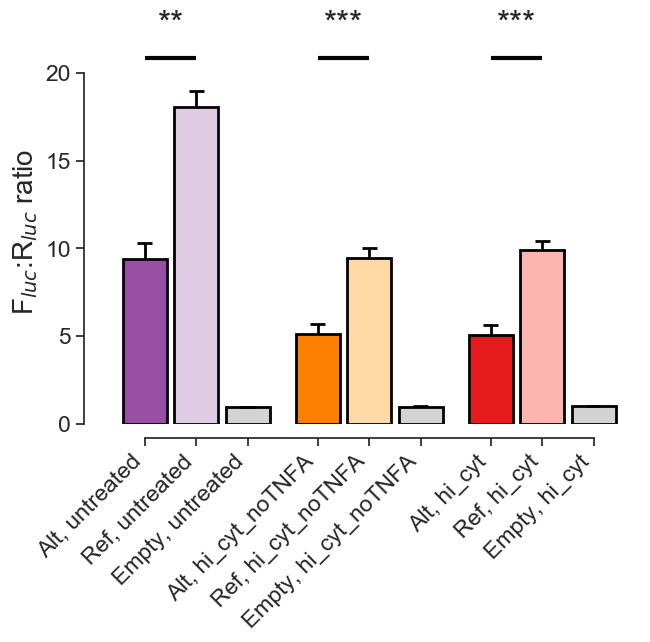
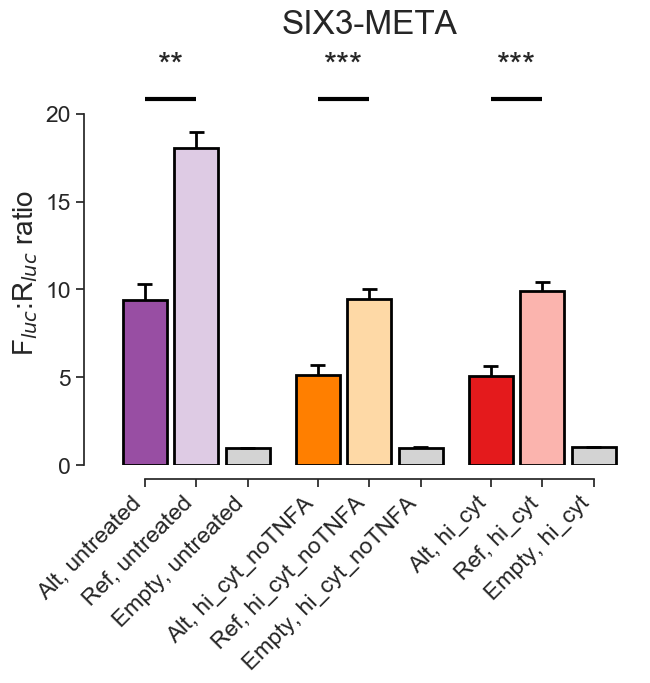
finish readme

diff --git a/README.md b/README.md
@@ -99,6 +99,34 @@ luciferase-barplot six3-mp1.json six3-mp1.png --light-colors '#DECBE4' '#FED9A6'
 <img src="example/six3-mp0.png" width="400"/><img src="example/six3-mp1.png" width="400"/>
 
 We can see that the results are fairly consistent in character, but checking
-the y-axis tells us that they are on different scales. Ideally, we would
-like to use all of the data at once for one plot to get the most accurate
-conclusions about allelic effects. We might simply 
+the y-axis tells us that they are on different scales. Intuitively, we might
+conclude from these results that there are allelic effects under all three
+conditions. Ideally though, we would like to use all of the data at once for
+one plot to get the most accurate conclusions about allelic effects.
+
+We might simply combine the data into one dataset, (as [here](example/six3-meta-nobatch.json)) and plot it:
+```sh
+luciferase-barplot six3-meta-nobatch.json six3-meta-nobatch.png --light-colors '#DECBE4' '#FED9A6' '#FBB4AE' --dark-colors '#984EA3' '#FF7F00' '#E41A1C'
+```
+
+![meta-analysis without batch](example/six3-meta-nobatch.png)
+
+The bar heights look reasonable, and the allelic effects appear clear from
+looking at them, but all of the hypothesis tests returned non-significant
+results. What gives?
+
+The answer is that combining data from experiments with different scales
+breaks the assumptions of the significance test (a t-test). To meta-analyze
+these data in a useful way, we first need to re-normalize the two experiments
+to put both of them on the same scale. `luciferase-barplot` will re-normalize
+the data automatically if the dataset includes an additional entry ("Batch")
+indicating the batch of each data point, as in this example:
+[SIX3-META](example/six3-meta.json).
+
+Here is what the results look like when they're re-normalized to correct for
+batch
+```sh
+luciferase-barplot six3-meta.json six3-meta.png --light-colors '#DECBE4' '#FED9A6' '#FBB4AE' --dark-colors '#984EA3' '#FF7F00' '#E41A1C' --title 'SIX3-META'
+```
+
+[meta-analysis with batch](example/six3-meta.png)
